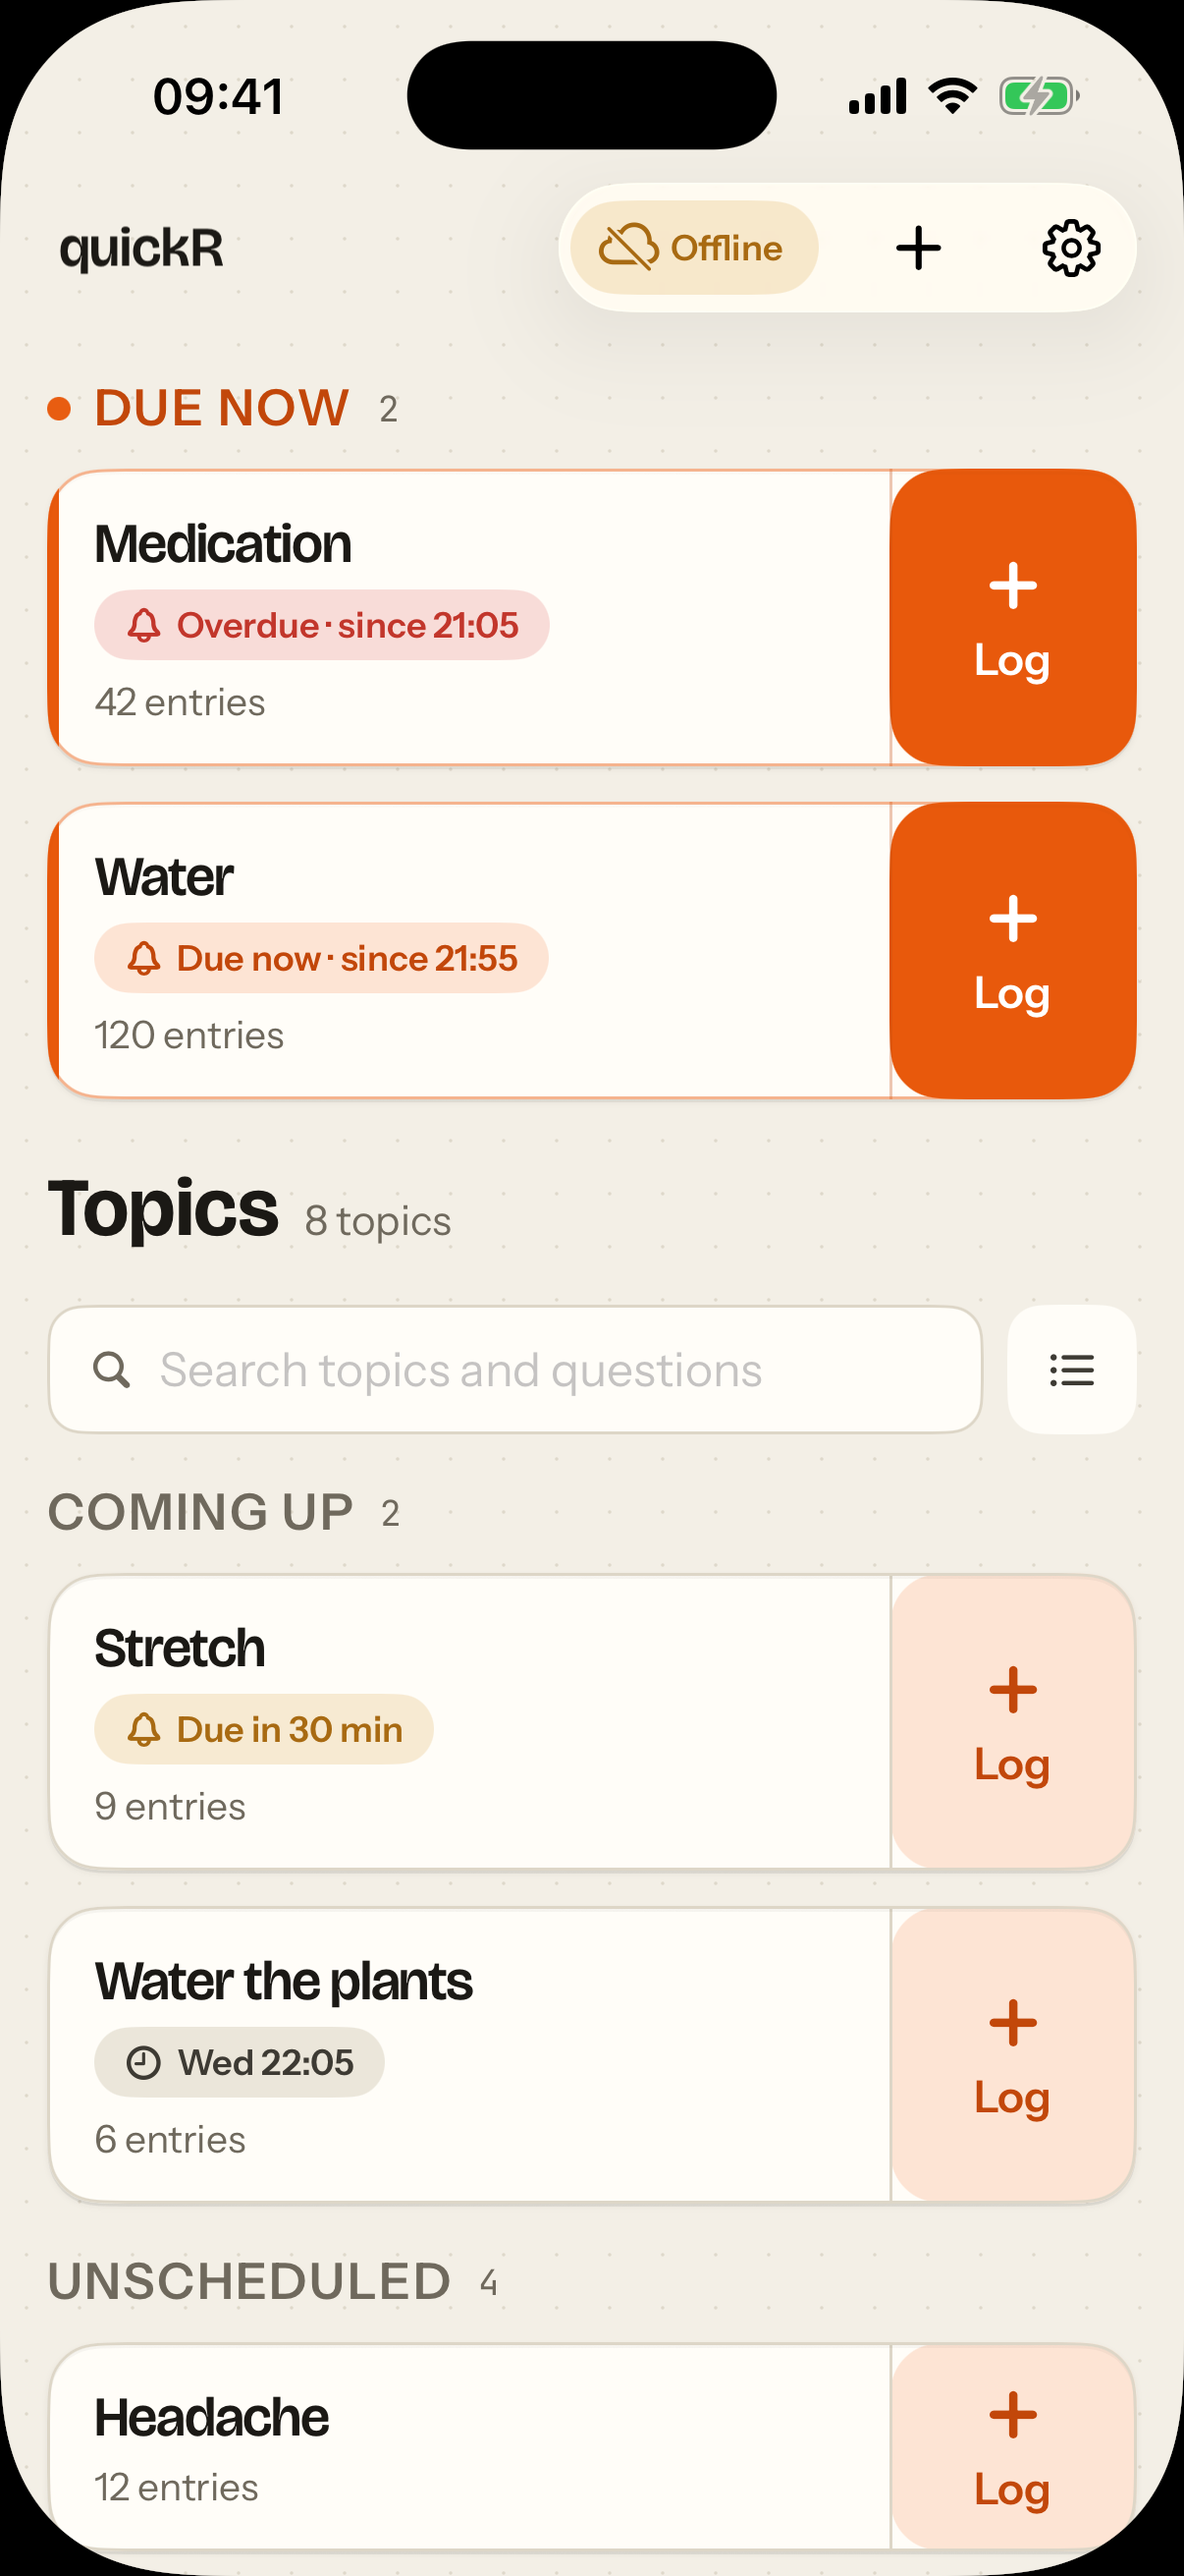
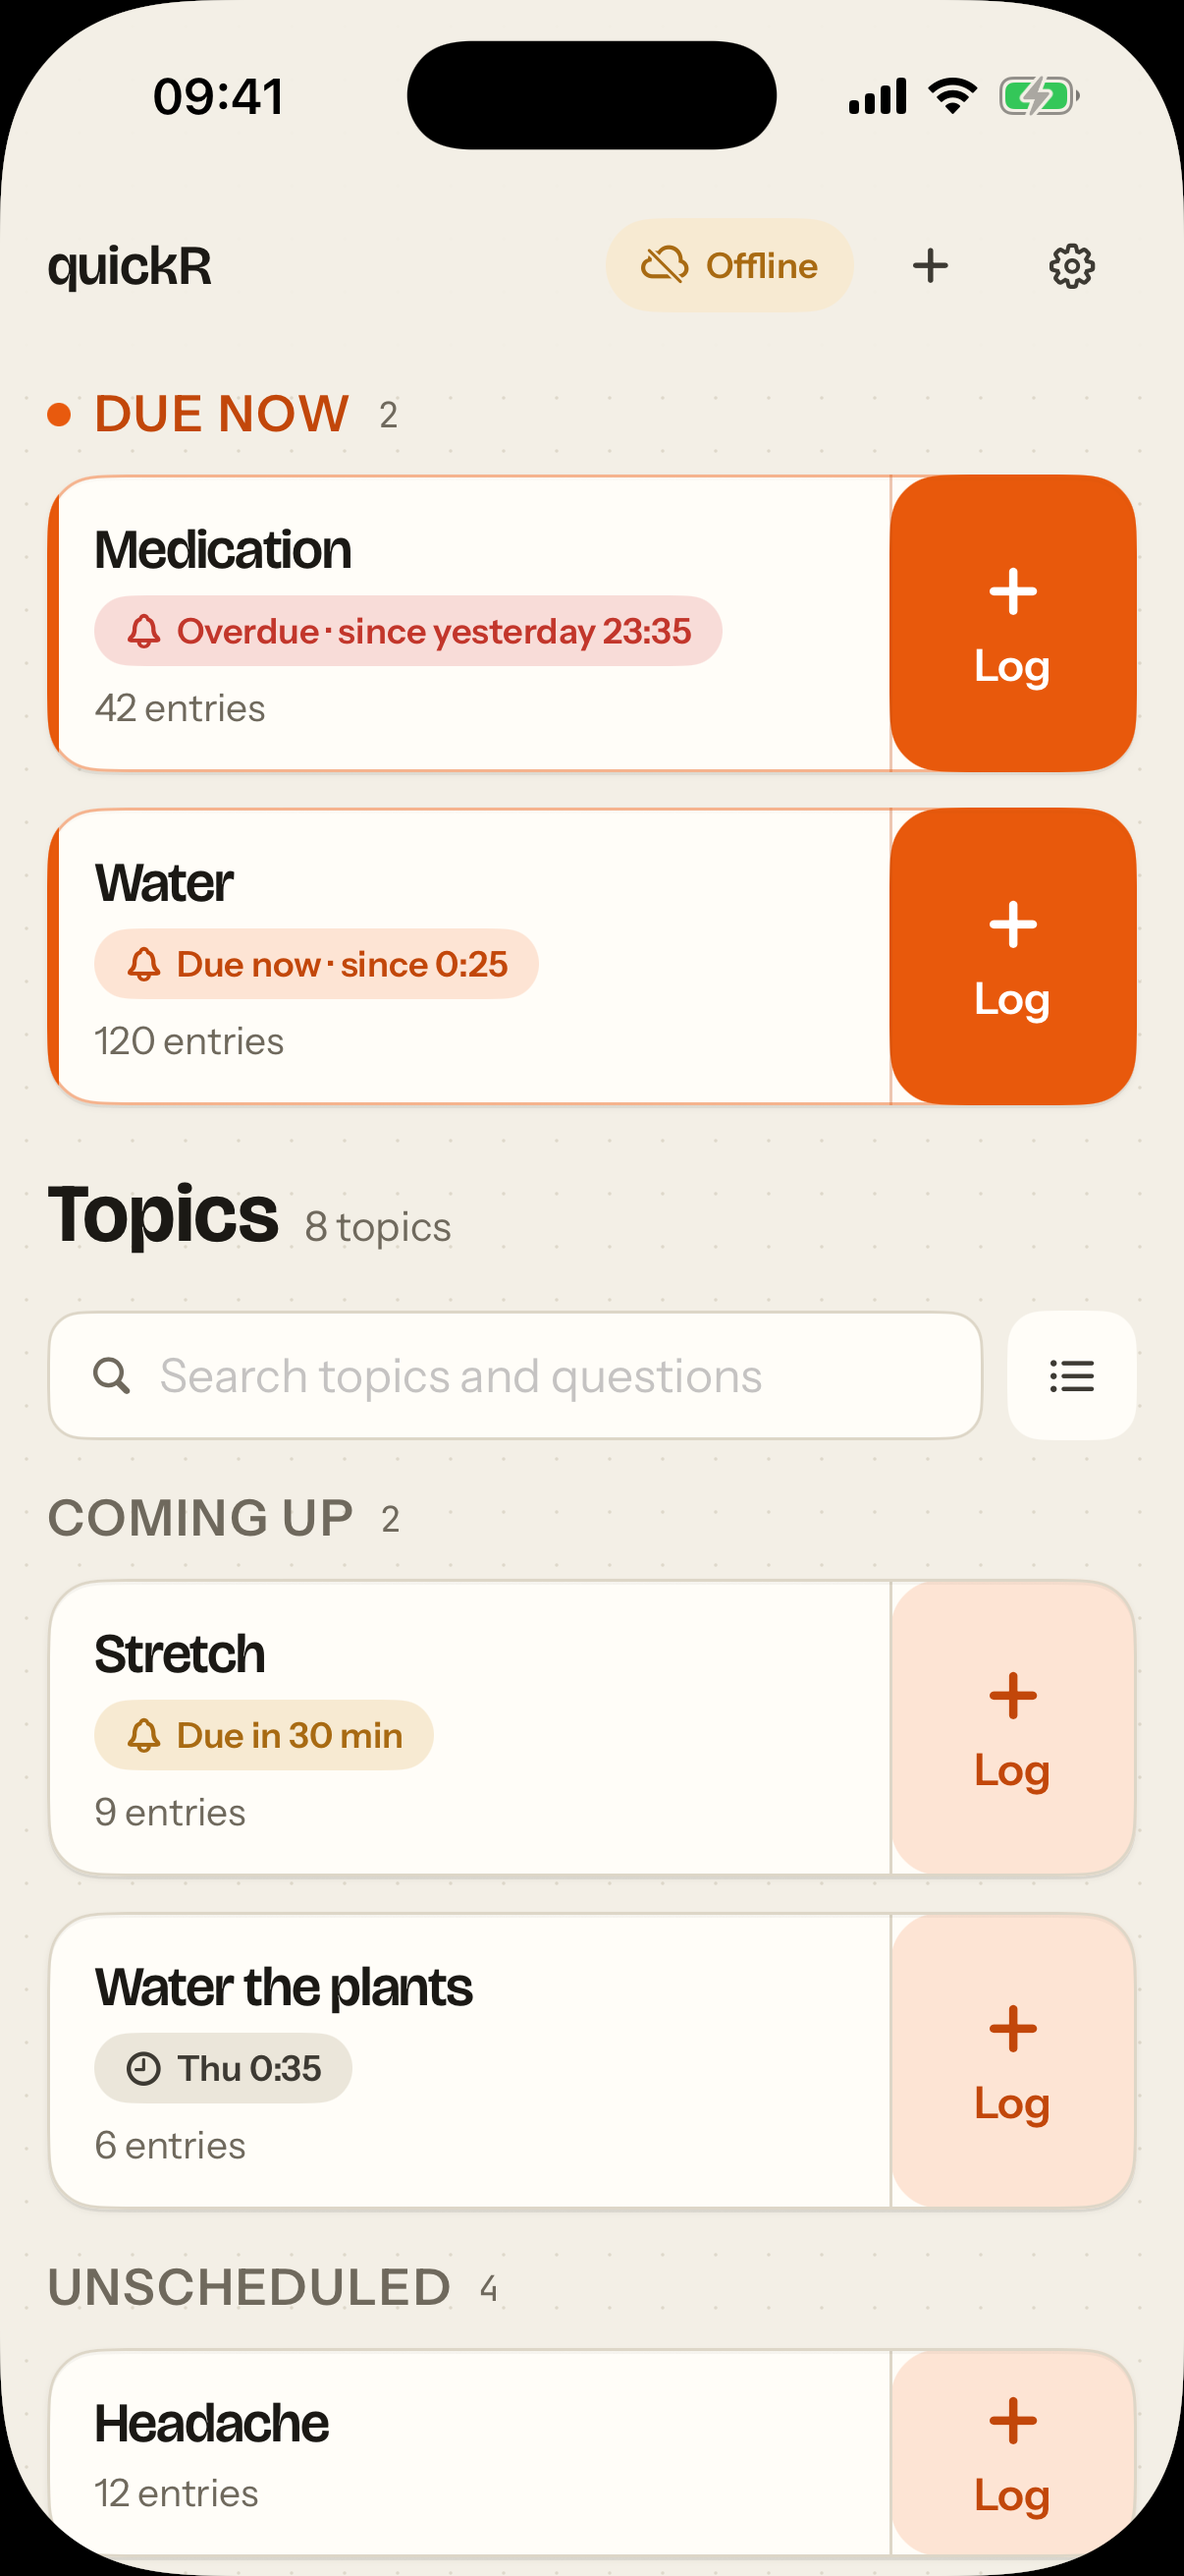
iOS: HOME: the header scales with Dynamic Type (TILES audit)
- The home header is now a bar of its own (safeAreaInset) instead of
  navigation-bar items, which stay small. The wordmark uses the DS title
  style and the icons use @ScaledMetric. At accessibility sizes the
  buttons move under the wordmark.
- SyncPill: its height and icon use @ScaledMetric, and the label keeps
  its width instead of shrinking or truncating.
- New UI test: the wordmark and pill are much taller at XXXL than at the
  default size. A fixed-size wordmark fails it.
- Light and dark screenshots retaken.

Claude-Session: https://claude.ai/code/session_01HTmChhesB2wtCfWYaBfSpu

diff --git a/ios/App/Home/HomeView.swift b/ios/App/Home/HomeView.swift
@@ -42,8 +42,13 @@ struct HomeView: View {
         .scrollDismissesKeyboard(.immediately)
         .qrPaperBackground()
         .accessibilityIdentifier("home.list")
-        .navigationBarTitleDisplayMode(.inline)
-        .toolbar { toolbar }
+        // A header of its own rather than the navigation bar's items, which don't grow with
+        // Dynamic Type.
+        .safeAreaInset(edge: .top, spacing: 0) {
+            HomeHeader(
+                online: model.isOnline, pending: model.pendingCount, failed: model.failedCount, actions: actions)
+        }
+        .toolbar(.hidden, for: .navigationBar)
         .task(id: ObservationKey(binding: session.binding, attempt: model.attempt)) { await model.observe() }
         .task {
             // The PWA's `useNow`: due states and labels move with the clock.
@@ -64,33 +69,6 @@ struct HomeView: View {
     private struct ObservationKey: Hashable {
         var binding: AppSession.Binding?
         var attempt: Int
-    }
-
-    // MARK: - Header
-
-    @ToolbarContentBuilder private var toolbar: some ToolbarContent {
-        ToolbarItem(placement: .topBarLeading) {
-            Text("quickR")
-                .font(.qr(.title))
-                .foregroundStyle(.qr.ink)
-                .fixedSize()
-                .accessibilityLabel("quickR — all topics")
-                .accessibilityAddTraits(.isHeader)
-        }
-        // A wordmark, not a button: no glass bubble around it.
-        .sharedBackgroundVisibility(.hidden)
-        ToolbarItemGroup(placement: .topBarTrailing) {
-            SyncPill(
-                online: model.isOnline, pending: model.pendingCount, failed: model.failedCount, action: actions.sync
-            )
-            .accessibilityIdentifier("home.syncPill")
-            Button(action: actions.newTopic) { QIcon.plus.view(size: 18, weight: .semibold) }
-                .accessibilityLabel("New topic")
-                .accessibilityIdentifier("home.newTopic")
-            Button(action: actions.settings) { QIcon.settings.view(size: 18) }
-                .accessibilityLabel("Settings")
-                .accessibilityIdentifier("home.settings")
-        }
     }
 
     // MARK: - Content
@@ -299,6 +277,51 @@ struct HomeView: View {
 
 // MARK: - Pieces
 
+/// The top bar (the PWA's `TopBar`): the wordmark, then the sync pill, New topic and Settings. It
+/// scales with Dynamic Type; at accessibility sizes the buttons move under the wordmark.
+private struct HomeHeader: View {
+    let online: Bool
+    let pending: Int
+    let failed: Int
+    let actions: HomeActions
+    @Environment(\.dynamicTypeSize) private var typeSize
+    @ScaledMetric(relativeTo: .title2) private var iconSize: CGFloat = 18
+
+    var body: some View {
+        AdaptiveStack(vertical: typeSize.isAccessibilitySize, spacing: 4, alignment: .center) {
+            Text("quickR")
+                .font(.qr(.title))
+                .foregroundStyle(.qr.ink)
+                .accessibilityLabel("quickR — all topics")
+                .accessibilityAddTraits(.isHeader)
+                .accessibilityIdentifier("home.wordmark")
+            if !typeSize.isAccessibilitySize { Spacer(minLength: 8) }
+            HStack(spacing: 4) {
+                SyncPill(online: online, pending: pending, failed: failed, action: actions.sync)
+                    .accessibilityIdentifier("home.syncPill")
+                button(.plus, "New topic", "home.newTopic", action: actions.newTopic)
+                button(.settings, "Settings", "home.settings", action: actions.settings)
+            }
+        }
+        .padding(.horizontal, 16)
+        .padding(.vertical, 6)
+        .frame(maxWidth: .infinity, alignment: .leading)
+        .background(Color.qr.paper.opacity(0.94))
+    }
+
+    private func button(_ icon: QIcon, _ label: String, _ id: String, action: @escaping () -> Void) -> some View {
+        Button(action: action) {
+            icon.view(size: iconSize, weight: .semibold)
+                .foregroundStyle(.qr.inkSoft)
+                .frame(minWidth: QuickrMetrics.tapTarget, minHeight: QuickrMetrics.tapTarget)
+                .contentShape(Rectangle())
+        }
+        .buttonStyle(QuickrPressStyle(scale: 0.95))
+        .accessibilityLabel(label)
+        .accessibilityIdentifier(id)
+    }
+}
+
 /// A section: an uppercase title with a count, then its tiles.
 private struct HomeSection<Content: View>: View {
     let title: String
@@ -428,13 +451,15 @@ private struct ErrorBanner: View {
 private struct AdaptiveStack<Content: View>: View {
     let vertical: Bool
     var spacing: CGFloat = 8
+    /// The row's vertical alignment.
+    var alignment: VerticalAlignment = .firstTextBaseline
     @ViewBuilder let content: Content
 
     var body: some View {
         if vertical {
             VStack(alignment: .leading, spacing: spacing) { content }
         } else {
-            HStack(alignment: .firstTextBaseline, spacing: spacing) { content }
+            HStack(alignment: alignment, spacing: spacing) { content }
         }
     }
 }

diff --git a/ios/QuickrKit/Sources/QuickrUI/Components/SyncPill.swift b/ios/QuickrKit/Sources/QuickrUI/Components/SyncPill.swift
@@ -7,6 +7,9 @@ public struct SyncPill: View {
     let status: SyncStatus?
     let action: () -> Void
     @Environment(\.accessibilityReduceMotion) private var reduceMotion
+    /// 32 pt and a 16 pt icon at the default size, growing with Dynamic Type.
+    @ScaledMetric(relativeTo: .caption) private var height: CGFloat = 32
+    @ScaledMetric(relativeTo: .caption) private var iconSize: CGFloat = 16
 
     public init(_ status: SyncStatus?, action: @escaping () -> Void) {
         self.status = status
@@ -22,11 +25,11 @@ public struct SyncPill: View {
             Button(action: action) {
                 HStack(spacing: 6) {
                     icon(status)
-                    Text(status.short).lineLimit(1).minimumScaleFactor(0.7)
+                    Text(status.short).lineLimit(1).fixedSize()
                 }
                 .font(.qr(.caption))
                 .padding(.horizontal, 12)
-                .frame(height: 32)
+                .frame(minHeight: height)
                 .foregroundStyle(foreground(status.kind))
                 .background(background(status.kind), in: Capsule())
                 // 32 pt to look at, 44 pt to tap.
@@ -42,10 +45,10 @@ public struct SyncPill: View {
     @ViewBuilder
     private func icon(_ status: SyncStatus) -> some View {
         switch status.kind {
-        case .failed: QIcon.alert.view(size: 16)
-        case .offline: QIcon.cloudOff.view(size: 16)
+        case .failed: QIcon.alert.view(size: iconSize)
+        case .offline: QIcon.cloudOff.view(size: iconSize)
         case .waiting:
-            QIcon.sync.view(size: 16)
+            QIcon.sync.view(size: iconSize)
                 .symbolEffect(.rotate, options: .repeat(.continuous).speed(0.4), isActive: !reduceMotion)
         }
     }

diff --git a/ios/UITests/HomeTests.swift b/ios/UITests/HomeTests.swift
@@ -98,4 +98,22 @@ final class HomeTests: XCTestCase {
         shot.lifetime = .keepAlways
         add(shot)
     }
+
+    /// The header's wordmark and sync pill grow with Dynamic Type (bar items wouldn't).
+    @MainActor
+    func testTheHeaderScalesWithDynamicType() {
+        func heights(_ extra: [String]) -> (wordmark: CGFloat, pill: CGFloat) {
+            let app = launch(extra)
+            defer { app.terminate() }
+            let wordmark = app.staticTexts["home.wordmark"]
+            let pill = app.buttons["home.syncPill"]
+            XCTAssertTrue(wordmark.waitForExistence(timeout: 5))
+            XCTAssertTrue(pill.waitForExistence(timeout: 10), "the demo store is offline: the pill shows")
+            return (wordmark.frame.height, pill.frame.height)
+        }
+        let normal = heights([])
+        let large = heights(["-UIPreferredContentSizeCategoryName", "UICTContentSizeCategoryAccessibilityXXXL"])
+        XCTAssertGreaterThan(large.wordmark, normal.wordmark * 1.5, "the wordmark scales")
+        XCTAssertGreaterThan(large.pill, normal.pill * 1.3, "the sync pill scales")
+    }
 }
